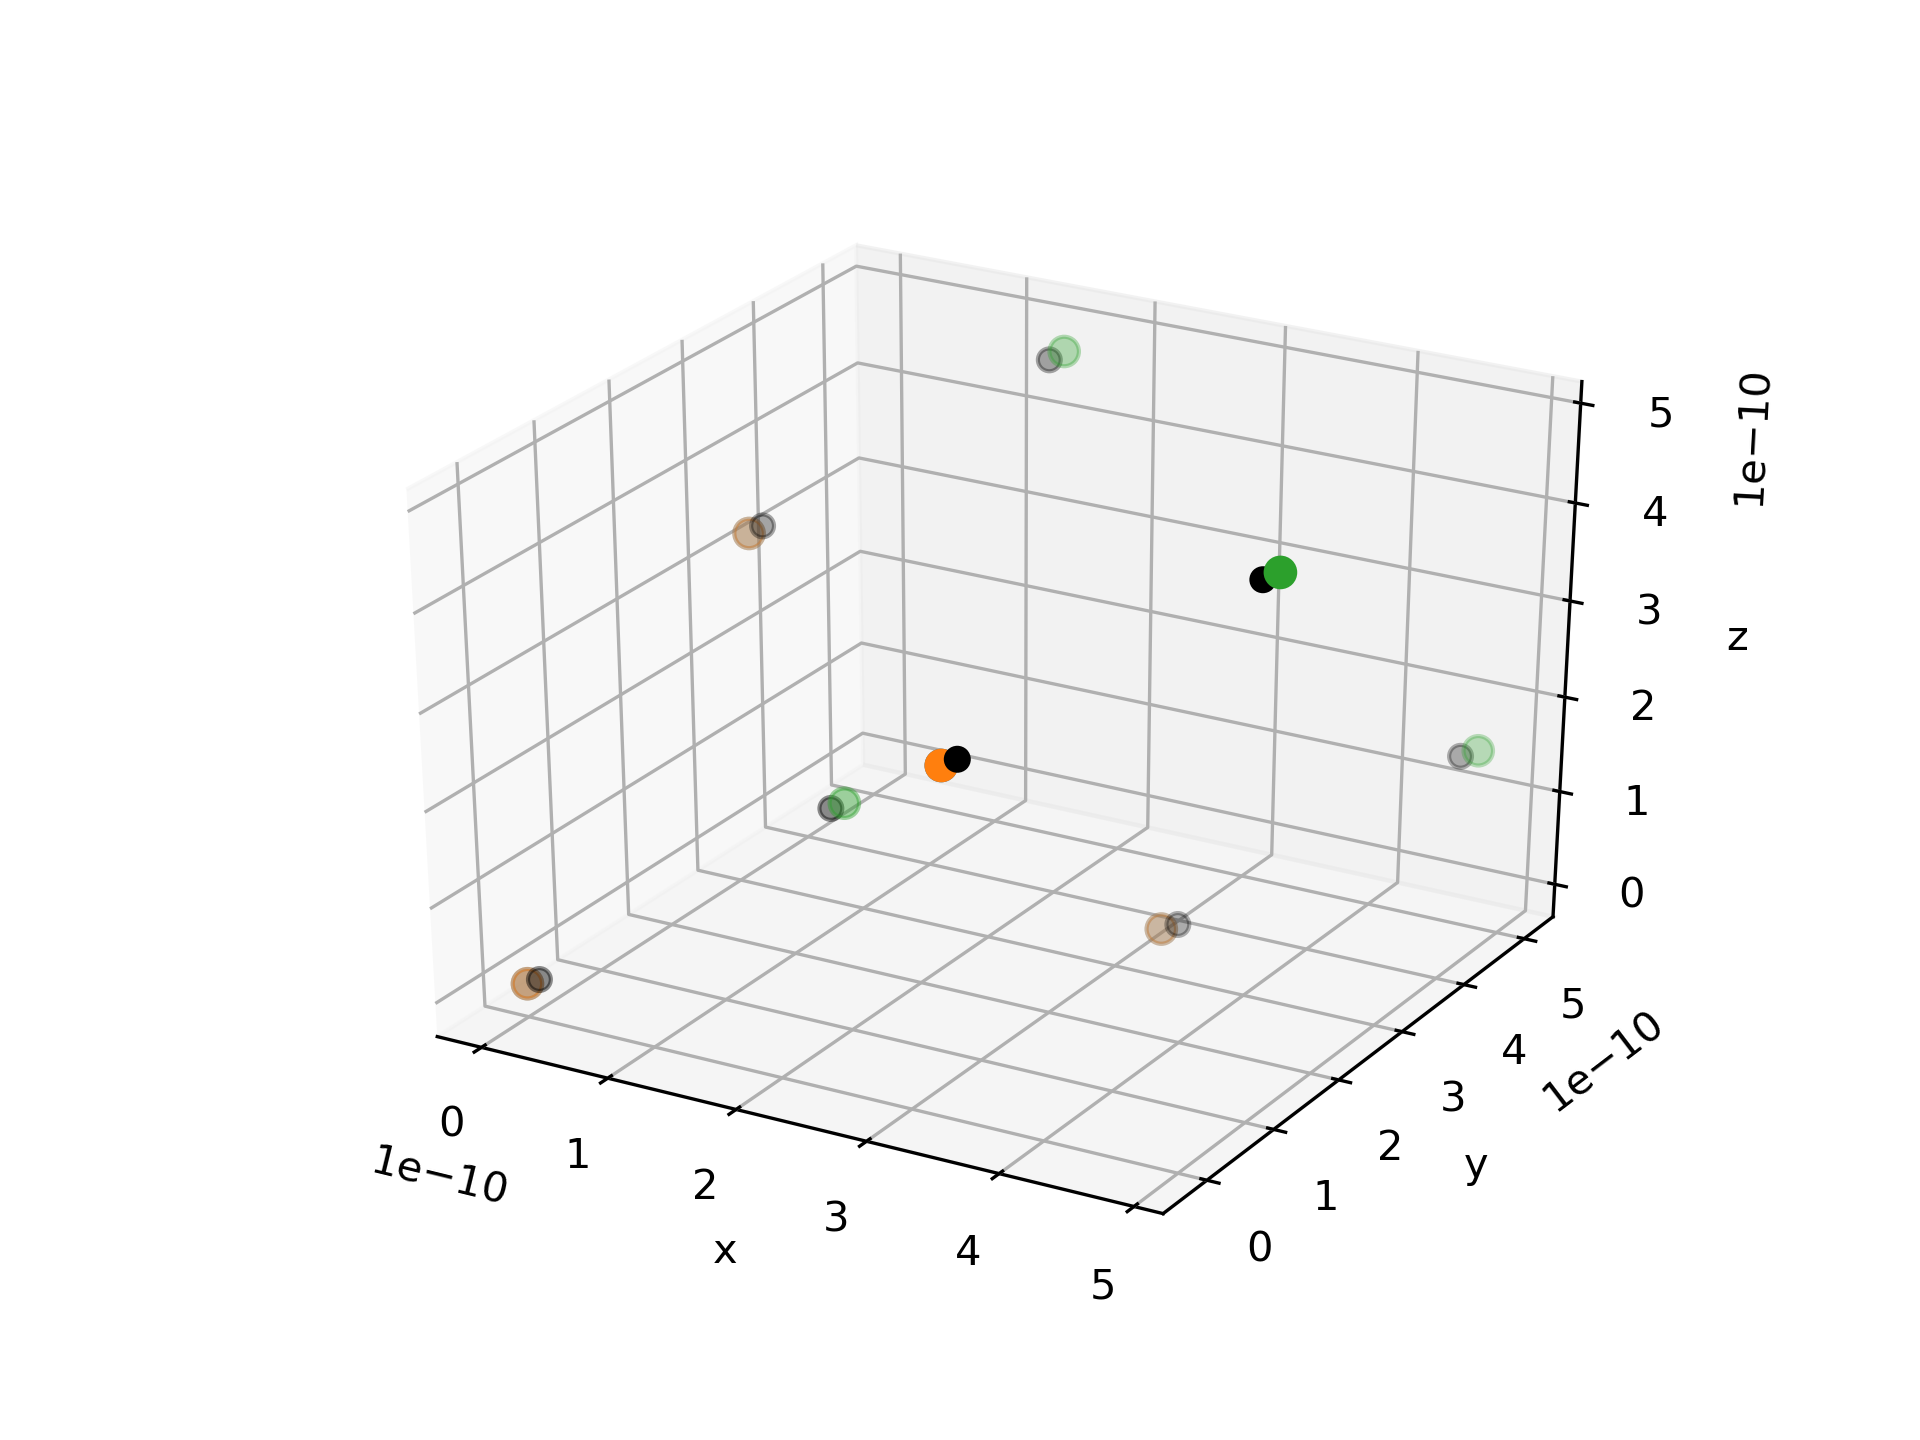
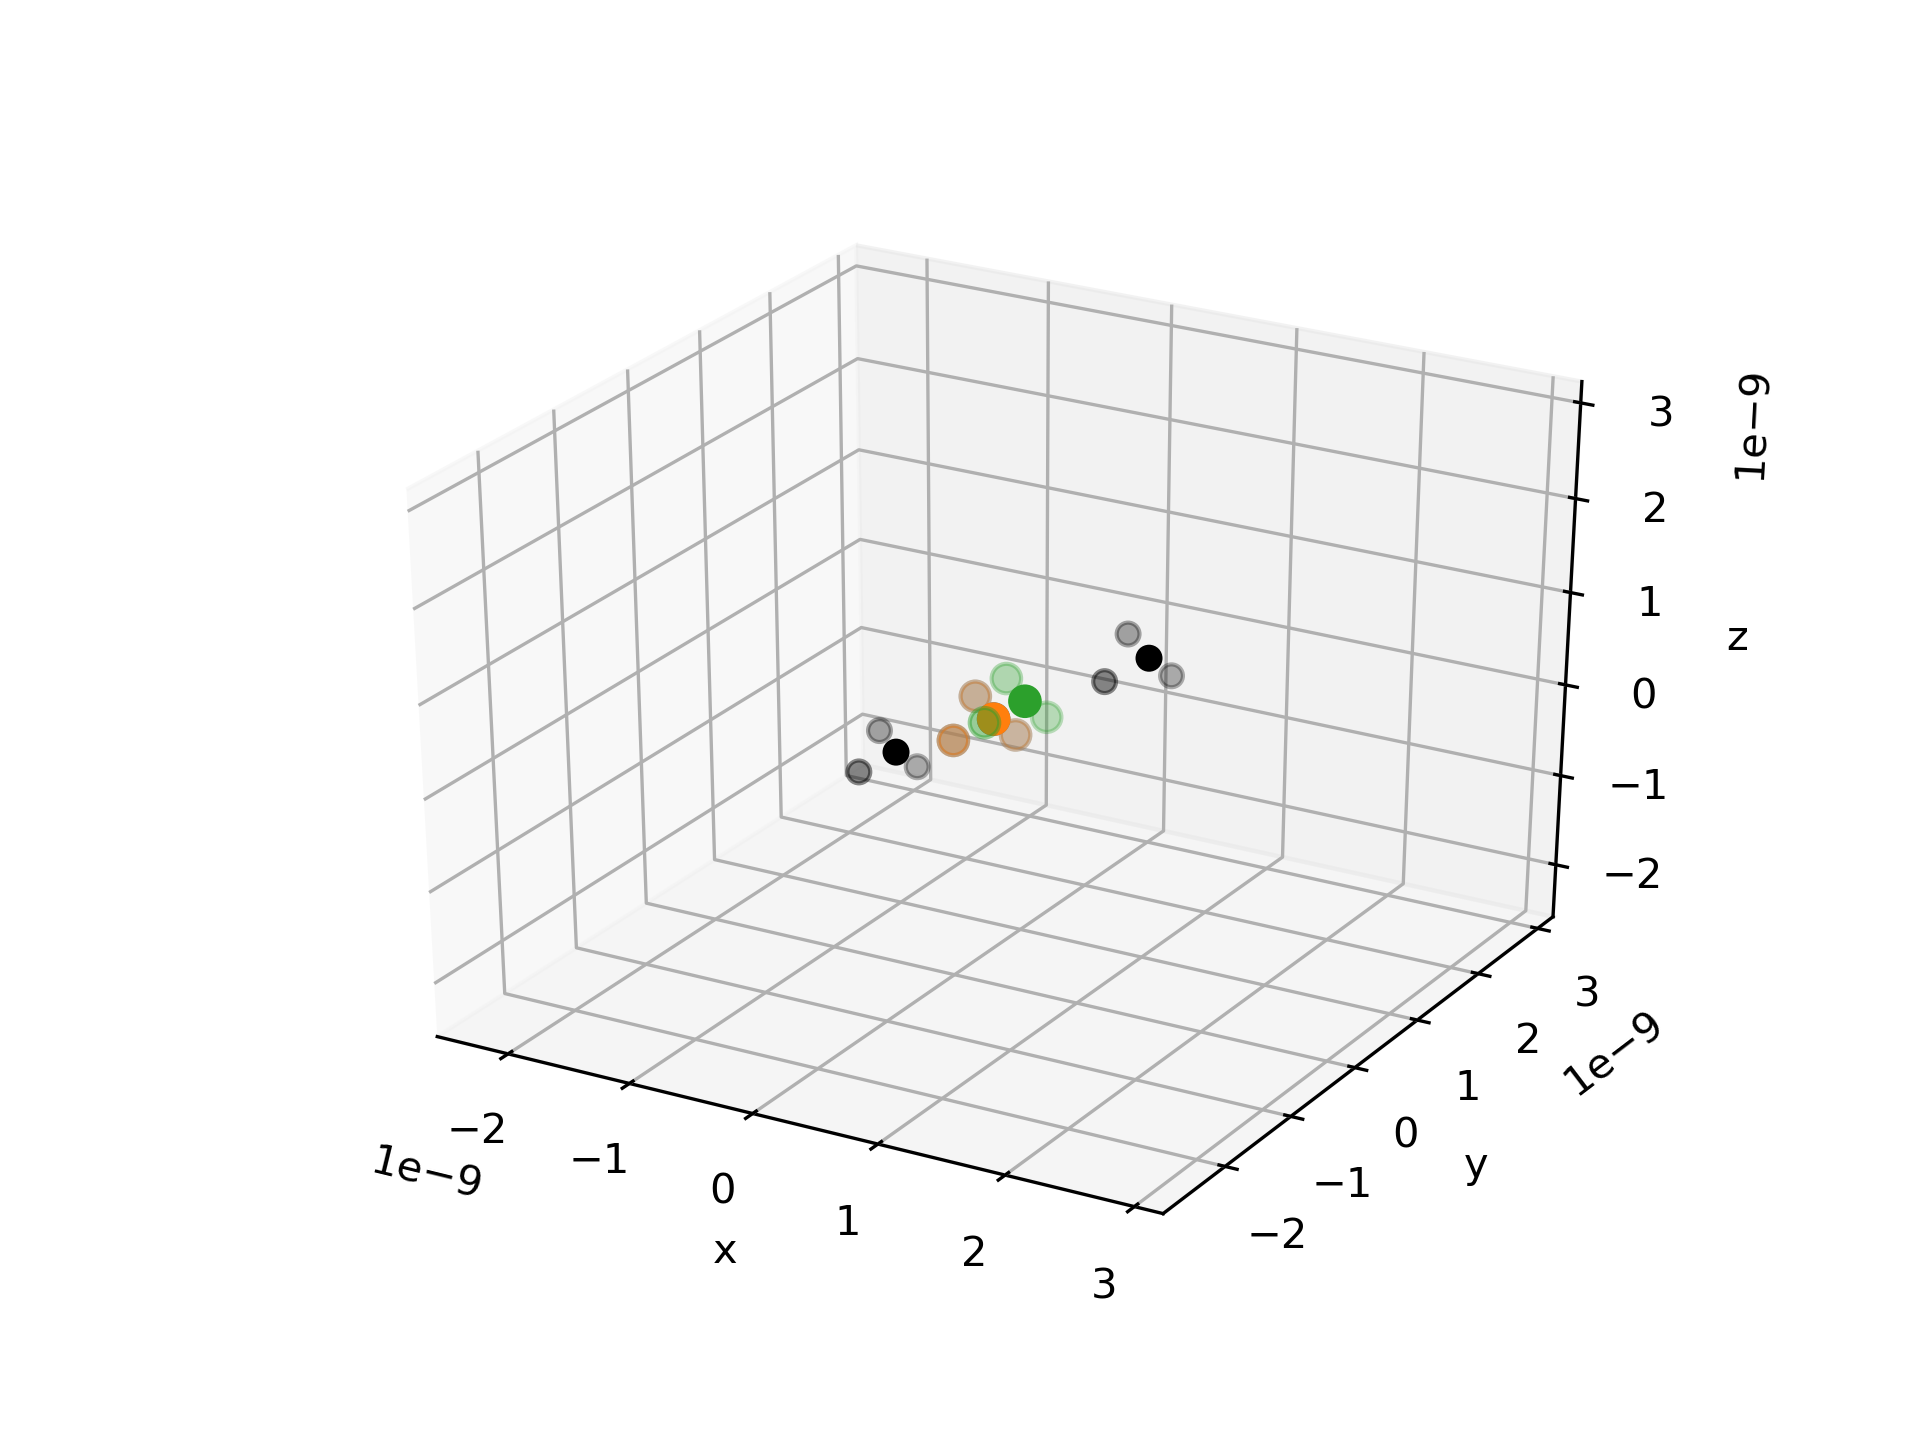
visualization and trxd of the phonon mode

diff --git a/py_scripts/trxd.py b/py_scripts/trxd.py
@@ -5,28 +5,36 @@ from math import pi
 from pre_xrd import q_hkl, f_In, f_Sb
 
 #%% Build the phonon mode as a result of the (2,-2,2) laser field
+# Some problem with the scaling again in the lattice constat...
 a = 6.479E-10 # Lattice constant [m]
+
+#In units of bond length
+#a = 1
+# scale the displacement
+#a_scaling = 6.479E-10
 
 "Equilibrium positions"
 # Note the atomic position should be multiplied by lattice const. a
 # 4 Indium atoms in an fcc crystal
-x_In = a*np.array([0, 0, 1/2, 1/2])
-y_In = a*np.array([0, 1/2, 0, 1/2])
-z_In = a*np.array([0, 1/2, 1/2, 0])
+x_In = np.array([0, 0, 1/2, 1/2])
+y_In = np.array([0, 1/2, 0, 1/2])
+z_In = np.array([0, 1/2, 1/2, 0])
 
 # 4 Antimony atoms in an fcc crystal
-x_Sb = x_In + a*1/4
-y_Sb = y_In + a*1/4
-z_Sb = z_In + a*1/4
+x_Sb = x_In + 1/4
+y_Sb = y_In + 1/4
+z_Sb = z_In + 1/4
 
 "Simulated atomic motion from harmonic oscillator equations as a response to an electric field in ho_solve_odeint.py file"
 "Total field strength 100 kV/cm with polarization along (2,-2,2) direction"
 
 # For Indium atoms in the crystal
 # Datasets contain 10000 points over a time interval of 50 ps
-dirx_In = 100*np.loadtxt("data/dirx.txt")
-diry_In = 100*np.loadtxt("data/diry.txt")
-dirz_In = 100*np.loadtxt("data/dirz.txt")
+dirx_In = np.loadtxt("data/dirx.txt")/a #Divide by a to get in units of the lattice const
+diry_In = np.loadtxt("data/diry.txt")/a #Does the lattice constant cancel in the exponent
+dirz_In = np.loadtxt("data/dirz.txt")/a #Of the structure factor???
+
+#If i divide by the lattice constant, is the motion still correct?
 
 # The movement of Antimony atoms is in the opposite direction scaled by the mass ratio
 # (Born effective charge and Raman tensors are opposite signs for In and Sb)
@@ -55,8 +63,9 @@ for i in range(no_atoms):
     mode_z_Sb.append(z_Sb[i] + dirz_Sb[:])
 
     #print(mode_x_In)
+
 # Convert to numpy arrays
-mode_x_In_arr = np.array(mode_x_In) #mode_x_In[0,:] is atom one 
+mode_x_In_arr = np.array(mode_x_In) #mode_x_In[0,:] is In atom one 
 mode_y_In_arr = np.array(mode_y_In)
 mode_z_In_arr = np.array(mode_z_In)
 
@@ -64,81 +73,55 @@ mode_x_Sb_arr = np.array(mode_x_Sb)
 mode_y_Sb_arr = np.array(mode_y_Sb)
 mode_z_Sb_arr = np.array(mode_z_Sb)
 
-#%% Visualize the crystal movement in the crystal
-# Not very good ... but seems like they are moving correct
-# Need to make a gif and more atoms
-from mpl_toolkits.mplot3d import Axes3D
-fig = plt.figure()
-ax = fig.add_subplot(111, projection='3d')
-#ax.scatter(0,0,0)
-ax.scatter(x_In, y_In, z_In, s=50)
-# Problem: How to add the 10000 datapoints to the 4 entries of x_In? need to do the same thing in the structure factors also
-# Probably create a new vector already above
-# Matlab understands the below, 
-ax.scatter(x_In, y_In, z_In, s=50)
-#This can be used to visualize the movement
-ax.scatter(mode_x_In_arr[:, 100], mode_y_In_arr[:, 100], mode_z_In_arr[:, 100], s=30, c='k')
 
-ax.scatter(x_Sb, y_Sb, z_Sb, s=50)
-#This can be used to visualize the movement
-ax.scatter(mode_x_Sb_arr[:, 100], mode_y_Sb_arr[:, 100], mode_z_Sb_arr[:, 100], s=30, c='k')
-ax.set_xlabel('x')
-ax.set_ylabel('y')
-ax.set_zlabel('z')
-#ax.grid(False)
-plt.savefig('figures/trxd/phonon_mode_crystal.png', format='png', dpi=300)
-plt.show()
-
-#print(f_In(q_hkl(2,0,0)))
-
-#%% Make a gif of the motion
-
-# Don't want to plot all 10000 images for the gif.
-xx = 20
-no_images = int(10000/xx)
-
-for i in range(no_images):
-    fig = plt.figure()
-    ax = fig.add_subplot(111, projection='3d')
-    ax.scatter(mode_x_In_arr[:, xx*i], mode_y_In_arr[:, xx*i], mode_z_In_arr[:, xx*i], s=50)
-    ax.scatter(mode_x_Sb_arr[:, xx*i], mode_y_Sb_arr[:, xx*i], mode_z_Sb_arr[:, xx*i], s=50)
-    # The axis is a bit weird ... 
-    ax.set_xlim3d(0, 5e-10)
-    ax.set_ylim3d(0, 5e-10)
-    ax.set_zlim3d(0, 5e-10)
-    plt.savefig('figures/trxd/gif/{}.png'.format(i), format='png', dpi=100)
-    plt.close()
-
-#Kinda sketchy to create a list like this put whatever
-list_filenames = []
-for i in range(no_images):
-    list_filenames.append('figures/trxd/gif/{}.png'.format(i))
-#print(list_filenames)
-
-import imageio
-images = []
-for filename in list_filenames:
-    print(filename)
-    images.append(imageio.imread(filename))
-#Looks good but the oscillation seems quite high??
-imageio.mimsave('figures/trxd/gif/movie.gif', images)
-
-
-# %% TIME-RESOLVED XRD INTENSITY
+#%% TIME-RESOLVED XRD INTENSITY
 """create a structure factor function that takes h,k,l as an input"""
-# Loop the function or make a loop of the function
-# Perhaps need to loop over i = 10000 in the function
-# Also need to append them to an array
+# The sum is over the 4 atoms, but the structure factors should return an array
+# of length 10000
 
-def struct_F_In(h,k,l):
-    return f_In(q_hkl(h,k,l))*np.sum(np.exp(2*pi*1j*(h*(mode_x_In_arr[:, i])
-                                                   + k*(mode_y_In_arr[:, i])
-                                                   + l*(mode_z_In_arr[:, i]))))
+def struct_F_In123(h,k,l):
+    f_In123 = []
+    for i in range(10000):
+        f_In123.append(f_In(q_hkl(h,k,l))*np.sum(np.exp(2*pi*1j*(h*(mode_x_In_arr[:, i])
+                                                               + k*(mode_y_In_arr[:, i])
+                                                               + l*(mode_z_In_arr[:, i])))))
 
-def struct_F_Sb(h,k,l):
-    return f_Sb(q_hkl(h,k,l))*np.sum(np.exp(2*pi*1j*(h*(mode_x_Sb_arr[:, i])
-                                                   + k*(mode_y_Sb_arr[:, i])
-                                                   + l*(mode_z_Sb_arr[:, i]))))
+    return np.array(f_In123)
+
+#maybe need to convert the lists to an array
+
+def struct_F_Sb123(h,k,l):
+    f_Sb123 = []
+    for i in range(10000):
+        f_Sb123.append(f_Sb(q_hkl(h,k,l))*np.sum(np.exp(2*pi*1j*(h*(mode_x_Sb_arr[:, i])
+                                                               + k*(mode_y_Sb_arr[:, i])
+                                                               + l*(mode_z_Sb_arr[:, i])))))
+
+    return np.array(f_Sb123)
+
+
+def struct_F(h,k,l):
+    return struct_F_In123(h,k,l) + struct_F_Sb123(h,k,l)
 
 def Intensity(h,k,l):
-    return (struct_F_In(h,k,l) + struct_F_In(h,k,l)) * np.conj(struct_F_In(h,k,l) + struct_F_Sb(h,k,l))
+    return struct_F(h,k,l) * np.conj(struct_F(h,k,l))
+
+t_int = np.linspace(0,50,10000)*1E-12
+
+plt.figure()
+plt.plot(t_int, Intensity(2,2,2), label="(2,2,2)")
+plt.plot(t_int, Intensity(2,-2,2), label="(2,-2,2)")
+plt.plot(t_int, Intensity(2,0,0), label="(2,0,0)")
+plt.plot(t_int, Intensity(6,0,0), label="(6,0,0)")
+plt.xlabel("t (s)")
+plt.ylabel("Intensity (arb. units)")
+plt.xlim(0,50E-12)
+plt.legend()
+plt.grid(True)
+#plt.savefig('figures/trxd/TRXD.png', format='png', dpi=300)
+plt.show()
+
+# print(struct_F(2,2,2))
+# print(Intensity(2,2,2))
+
+# %%

diff --git a/py_scripts/visualize_motion.py b/py_scripts/visualize_motion.py
@@ -1,0 +1,139 @@
+#%% Loading packages
+import numpy as np
+import matplotlib.pyplot as plt
+from mpl_toolkits.mplot3d import Axes3D
+
+#%% Build the phonon mode as a result of the (2,-2,2) laser field
+# Some problem with the scaling again in the lattice constat...
+a = 6.479E-10 # Lattice constant [m]
+
+#In units of bond length
+#a = 1
+# scale the displacement
+#a_scaling = 6.479E-10
+
+"Equilibrium positions"
+# Note the atomic position should be multiplied by lattice const. a
+# 4 Indium atoms in an fcc crystal
+x_In = a*np.array([0, 0, 1/2, 1/2])
+y_In = a*np.array([0, 1/2, 0, 1/2])
+z_In = a*np.array([0, 1/2, 1/2, 0])
+
+# 4 Antimony atoms in an fcc crystal
+x_Sb = x_In + a*1/4
+y_Sb = y_In + a*1/4
+z_Sb = z_In + a*1/4
+
+"Simulated atomic motion from harmonic oscillator equations as a response to an electric field in ho_solve_odeint.py file"
+"Total field strength 100 kV/cm with polarization along (2,-2,2) direction"
+
+# For Indium atoms in the crystal
+# Datasets contain 10000 points over a time interval of 50 ps
+
+# Multiply the movement by 50 for visualization purposes
+dirx_In = 50*np.loadtxt("data/dirx.txt") 
+diry_In = 50*np.loadtxt("data/diry.txt") 
+dirz_In = 50*np.loadtxt("data/dirz.txt") 
+
+# The movement of Antimony atoms is in the opposite direction scaled by the mass ratio
+# (Born effective charge and Raman tensors are opposite signs for In and Sb)
+# Also this is the optical T-mode
+# Scaling factor
+M_In = 114.82; M_Sb = 121.71 # amu
+C = M_In/M_Sb
+
+dirx_Sb = C * (-dirx_In)
+diry_Sb = C * (-diry_In)
+dirz_Sb = C * (-dirz_In)
+
+# Create vectors containing the atomic positions in the crystal i.e., 
+# mode_x_In = x_In + dirx_In 
+mode_x_In = []; mode_y_In = []; mode_z_In = []
+mode_x_Sb = []; mode_y_Sb = []; mode_z_Sb = []
+
+no_atoms = 4
+for i in range(no_atoms):
+    mode_x_In.append(x_In[i] + dirx_In[:])
+    mode_y_In.append(y_In[i] + diry_In[:])
+    mode_z_In.append(z_In[i] + dirz_In[:])
+
+    mode_x_Sb.append(x_Sb[i] + dirx_Sb[:])
+    mode_y_Sb.append(y_Sb[i] + diry_Sb[:])
+    mode_z_Sb.append(z_Sb[i] + dirz_Sb[:])
+
+    #print(mode_x_In)
+# Convert to numpy arrays
+# DIVIDE BY a
+mode_x_In_arr = np.array(mode_x_In) #mode_x_In[0,:] is atom one 
+mode_y_In_arr = np.array(mode_y_In)
+mode_z_In_arr = np.array(mode_z_In)
+
+mode_x_Sb_arr = np.array(mode_x_Sb)
+mode_y_Sb_arr = np.array(mode_y_Sb)
+mode_z_Sb_arr = np.array(mode_z_Sb)
+
+#%% # (and the decay in 50 ps time interval as a response to the laser field)
+
+# Don't want to plot all 10000 images for the gif.
+xx = 20
+no_images = int(10000/xx)
+# Multiplier for the atomic motion (otherwise dont see anything)
+# mult = 10000 # This just multiplies the values but not the motion ... 
+# Need to multiply the dirx_In, diry_In, dirz_In
+
+for i in range(no_images):
+    fig = plt.figure()
+    ax = fig.add_subplot(111, projection='3d')
+    ax.scatter(mode_x_In_arr[:, xx*i], mode_y_In_arr[:, xx*i], mode_z_In_arr[:, xx*i], s=50)
+    ax.scatter(mode_x_Sb_arr[:, xx*i], mode_y_Sb_arr[:, xx*i], mode_z_Sb_arr[:, xx*i], s=50)
+    # The axis is a bit weird ... 
+    # ax.set_xlim3d(0, 1)
+    # ax.set_ylim3d(0, 1) 
+    # ax.set_zlim3d(0, 1)
+    ax.set_xlim3d(0, 5e-10)
+    ax.set_ylim3d(0, 5e-10) 
+    ax.set_zlim3d(0, 5e-10)
+    plt.savefig('figures/trxd/gif/{}.png'.format(i), format='png', dpi=100)
+    plt.close()
+
+#Kinda sketchy to create a list like this put whatever
+list_filenames = []
+for i in range(no_images):
+    list_filenames.append('figures/trxd/gif/{}.png'.format(i))
+#print(list_filenames)
+
+import imageio
+
+images = []
+for filename in list_filenames:
+    #print(filename)
+    images.append(imageio.imread(filename))
+# Also the axis are quite weird
+# Also could import the translation vector crystal structure instead, i.e., more atoms in the cell
+imageio.mimsave('figures/trxd/gif/Motion_multiplied_by_50.gif', images)
+
+#Can I plot a time from 0 to 50 ps in 10000/xx steps to the image
+#%% Static visualization - delete maybe (probably useless)
+
+# # Probably should delete as I have the gif in next cell.
+# from mpl_toolkits.mplot3d import Axes3D
+# fig = plt.figure()
+# ax = fig.add_subplot(111, projection='3d')
+# #ax.scatter(0,0,0)
+# ax.scatter(x_In, y_In, z_In, s=50)
+# # Problem: How to add the 10000 datapoints to the 4 entries of x_In? need to do the same thing in the structure factors also
+# # Probably create a new vector already above
+# # Matlab understands the below, 
+# ax.scatter(x_In, y_In, z_In, s=50)
+# #This can be used to visualize the movement
+# ax.scatter(mode_x_In_arr[:, 100], mode_y_In_arr[:, 100], mode_z_In_arr[:, 100], s=30, c='k')
+
+# ax.scatter(x_Sb, y_Sb, z_Sb, s=50)
+# #This can be used to visualize the movement
+# ax.scatter(mode_x_Sb_arr[:, 100], mode_y_Sb_arr[:, 100], mode_z_Sb_arr[:, 100], s=30, c='k')
+# ax.set_xlabel('x')
+# ax.set_ylabel('y')
+# ax.set_zlabel('z')
+# #ax.grid(False)
+# plt.savefig('figures/trxd/phonon_mode_crystal.png', format='png', dpi=300)
+# plt.show()

diff --git a/py_scripts/ho_solve_odeint.py b/py_scripts/ho_solve_odeint.py
@@ -7,6 +7,8 @@ from scipy.integrate import odeint
 
 #%% Constants
 # Fundamental 
+a_latt = 6.479E-10
+
 echarge = 1.60217662E-19 #coulomb
 eps_0 = 8.8541878128E-12 #[F*m^{-1} = C/(Nm^2)]
 bohr = 0.529E-10 #meter
@@ -65,6 +67,9 @@ Uxs = odeint(dUx_dt, U0, ts)
 
 np.savetxt("data/dirx.txt", Uxs[:,0])
 
+#In units of lattice constant
+#np.savetxt("data/dirx.txt", Uxs[:,0]/a_latt)
+
 plt.figure()
 plt.title("E_0tot = 1E7 V/m - x-direction")
 plt.xlabel("time (s)")
@@ -90,6 +95,9 @@ ts = np.linspace(0,50E-12,10000)
 Uys = odeint(dUy_dt, U0, ts)
 
 np.savetxt("data/diry.txt", Uys[:,0])
+
+#In units of lattice constant
+#np.savetxt("data/diry.txt", Uys[:,0]/a_latt)
 
 plt.figure()
 plt.title("E_0tot = 1E7 V/m - y-direction")
@@ -117,6 +125,9 @@ ts = np.linspace(0,50E-12,10000)
 Uzs = odeint(dUz_dt, U0, ts)
 
 np.savetxt("data/dirz.txt", Uzs[:,0])
+
+#In units of lattice constant
+#np.savetxt("data/dirz.txt", Uzs[:,0]/a_latt)
 
 plt.figure()
 plt.title("E_0tot = 1E7 V/m - z-direction")
